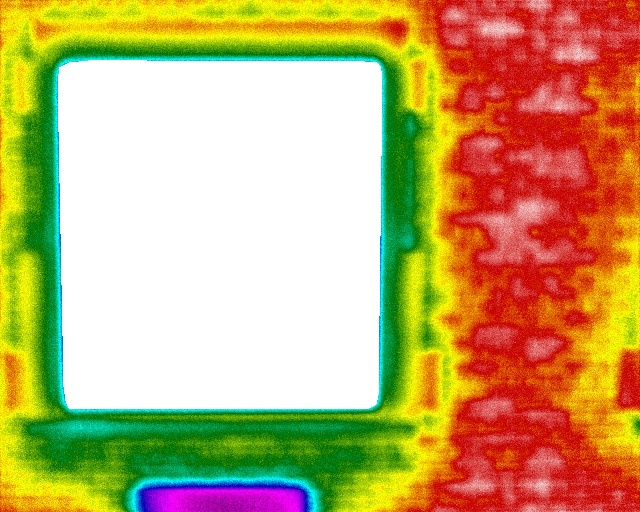
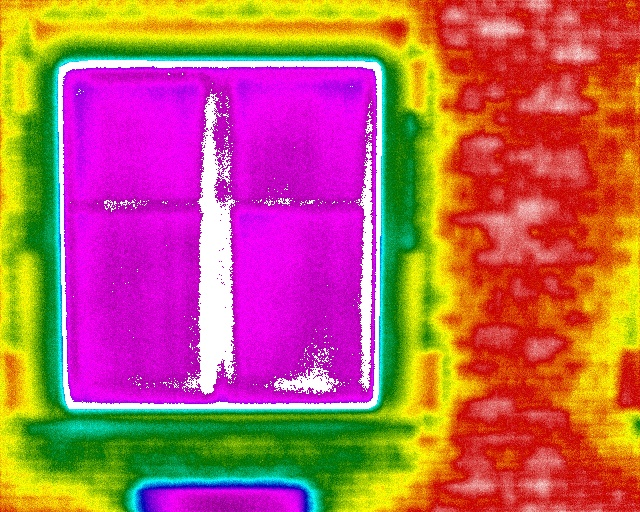
Updated

Changed region(s): [[0.0938, 0.125, 0.5938, 0.8125]]

diff --git a/Kmeans_Scikt-learn_determine_hotspot.py b/Kmeans_Scikt-learn_determine_hotspot.py
@@ -71,7 +71,7 @@ for image in pbar(image_list):
 
     #create an array for the number of clusters  
     try:
-        kmeans = KMeans(n_clusters=10, random_state=0, n_jobs = -1).fit(pixel_values)
+        kmeans = KMeans(n_clusters=2, random_state=0, n_jobs = -1).fit(pixel_values)
         # convert back to 8 bit values
         centers = kmeans.cluster_centers_
         centers = np.uint8(centers)
@@ -118,11 +118,18 @@ for image in clustered_images_list:
     masked_image = np.copy(temp_image)
     
     #masked_image = masked_image.reshape((-1,3))
+    test = 0
+    for i in range(len(labels)):
+        if labels[i] != best_cluster:
+            coordinates[i] = [-1,-1] 
+            test = test+1
+        else:continue
+    #print("test",test,"    labels",len(labels),"   coordinates",len(coordinates))
     try:    
         temp_image = []        
         for j in coordinates:
-            #print(j)
-            masked_image[j[1],j[0]] = [255,255,255]
+            if j != [-1,-1]:
+                masked_image[j[1],j[0]] = [255,255,255]
    
     except UnboundLocalError : 
             print(filenames[counter])

diff --git a/Find_best_cluster.py b/Find_best_cluster.py
@@ -38,7 +38,7 @@ def extract_temperature(csv_filename):
             for i, data in enumerate(csv_file_content):
                 if(i >= 1):
                     pixel_temperature.append(data[0:])
-    print("length of Pixel temp",len(pixel_temperature))
+    #print("length of Pixel temp",len(pixel_temperature))
     return pixel_temperature
 
 
@@ -91,10 +91,10 @@ def calculate_temperature(labels,filename,coordinates):
         average = mean(temp_array)
         data = list([cluster,minimum,maximum,average])    
                
-        print("For Cluster = ",cluster)
-        print("minimum Surface Temperature = ",minimum)
-        print("maximum Surface Temperature = ",maximum)
-        print("average Surface Temperature = ",average)
+        # print("For Cluster = ",cluster)
+        # print("minimum Surface Temperature = ",minimum)
+        # print("maximum Surface Temperature = ",maximum)
+        # print("average Surface Temperature = ",average)
         cluster_averages.append(average)
         data_of_all_clusters.append(data)        
     print("")
